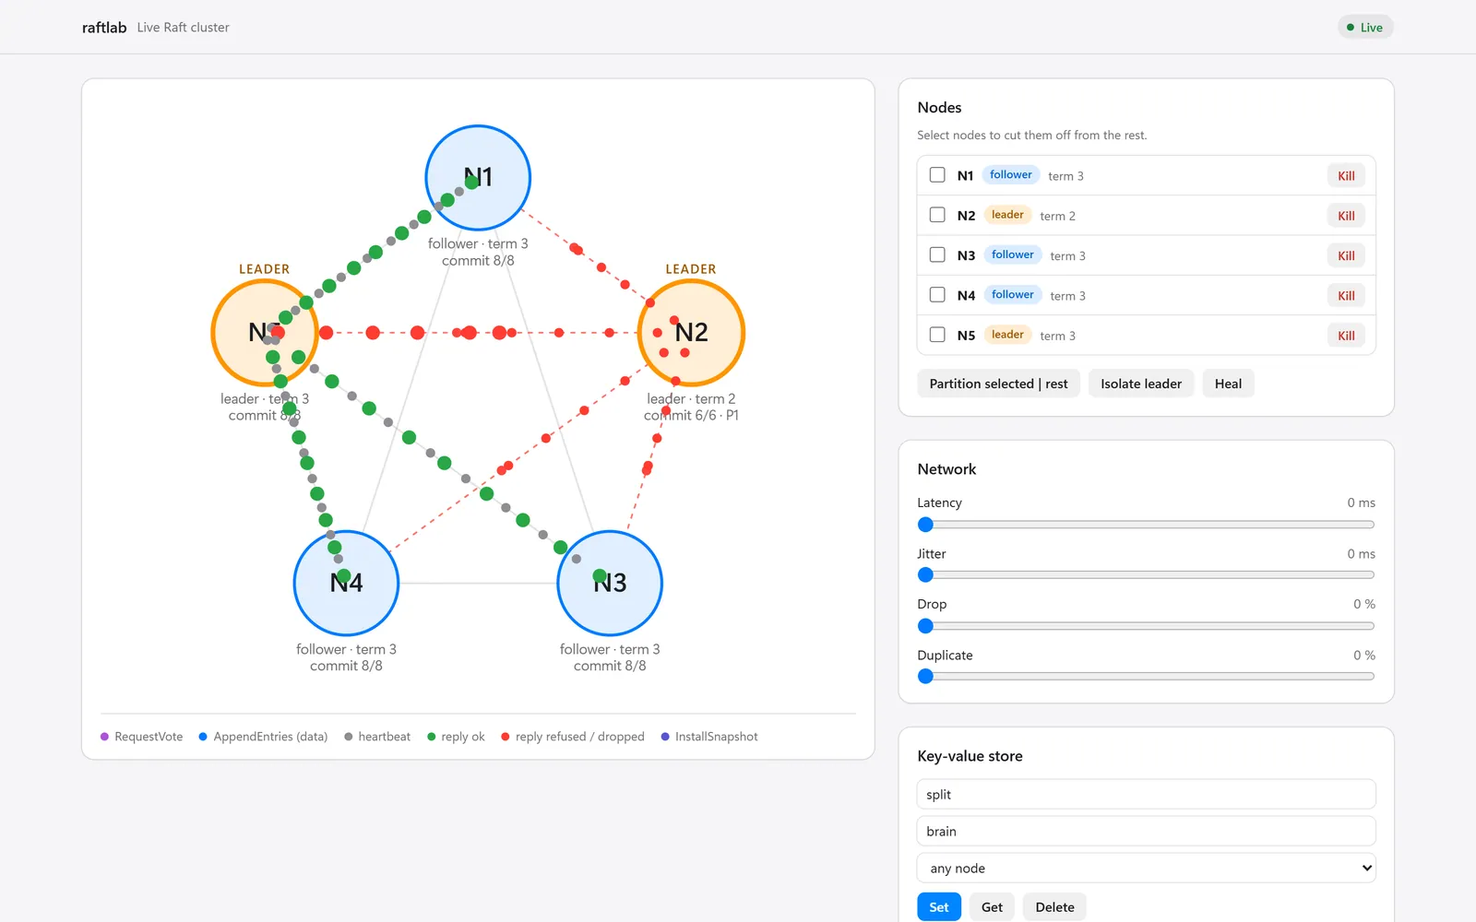
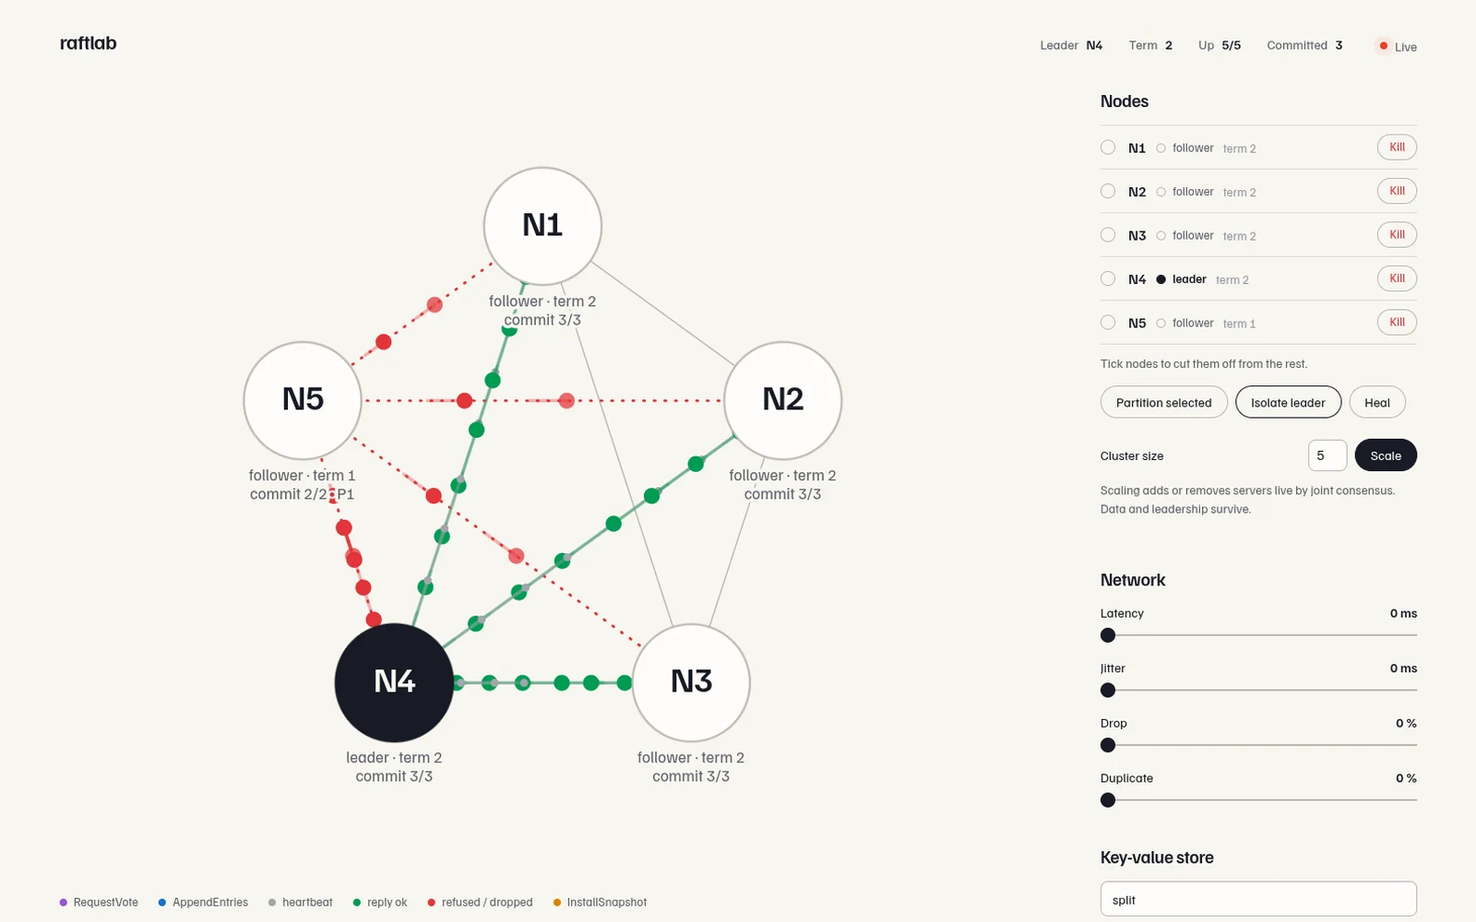
docs(raftlab): refresh screenshot and copy to match the current repo
New visualizer screenshot for the project page and both OG cards. Update
the case study, home page, JSON-LD and llms.txt: PreVote, CheckQuorum,
joint consensus, ReadIndex and chunked snapshots are built, not roadmap;
line counts are 8.7k total and 3.9k tests; the chaos test feeds a
linearizability checker. German translations re-keyed to match.

diff --git a/index.html b/index.html
@@ -210,7 +210,7 @@
       "@type": "SoftwareSourceCode",
       "@id": "https://nweber.me/#project-raftlab",
       "name": "raftlab",
-      "description": "Raft consensus implemented from scratch in Go, a linearizable replicated key-value store on top of it, and a browser UI where you can kill nodes, cut the network and watch the cluster recover. About 5,100 lines of Go with a seeded, deterministic chaos test that checks the safety properties of the algorithm.",
+      "description": "Raft consensus implemented from scratch in Go, a linearizable replicated key-value store on top of it, and a browser UI where you can kill nodes, cut the network and watch the cluster recover. About 8,700 lines of Go with a seeded, deterministic chaos test whose recorded histories are checked for linearizability.",
       "url": "https://nweber.me/projects/raftlab.html",
       "codeRepository": "https://github.com/nweber23/raftlab",
       "programmingLanguage": [
@@ -218,7 +218,7 @@
         { "@type": "ComputerLanguage", "name": "JavaScript" }
       ],
       "runtimePlatform": "Linux, Windows, macOS",
-      "keywords": "Raft, consensus algorithm, distributed systems, leader election, log replication, replicated state machine, key-value store, snapshots, write-ahead log, deterministic simulation testing, chaos testing, Go",
+      "keywords": "Raft, consensus algorithm, distributed systems, leader election, log replication, replicated state machine, key-value store, snapshots, write-ahead log, PreVote, joint consensus membership changes, linearizability checking, deterministic simulation testing, chaos testing, Go",
       "image": "https://nweber.me/assets/raftlab.webp",
       "creator": { "@id": "https://nweber.me/#person" },
       "datePublished": "2026-11-02"
@@ -494,12 +494,12 @@ $ _</pre></figure>
                     <span class="row__toggle" aria-hidden="true"></span>
                 </summary>
                 <div class="row__body">
-                    <figure class="row__figure"><img src="/assets/raftlab.webp" alt="raftlab visualizer during a network partition: five Raft nodes in a pentagon, two of them marked leader, with dashed red links where messages are dropped between the old leader and the rest" width="1600" height="1000" loading="lazy" decoding="async">
-                        <figcaption class="mono-s"><span>Network partition: two nodes believe they lead</span><span>[term 2 vs 3]</span></figcaption></figure>
+                    <figure class="row__figure"><img src="/assets/raftlab.webp" alt="raftlab visualizer during a network partition: five Raft nodes in a pentagon, the new leader N4 drawn as a solid dark circle, and dotted red links where messages are dropped between the cut-off old leader N5 and the rest" width="1600" height="1000" loading="lazy" decoding="async">
+                        <figcaption class="mono-s"><span>Network partition: the old leader N5 stepped down, N4 won term 2</span><span>[term 1 vs 2]</span></figcaption></figure>
                     <div class="row__text">
                         <p class="row__summary">Raft consensus implemented from scratch in Go — leader election, log replication, snapshots and crash recovery — with a linearizable key-value store on top and a browser UI where you can kill nodes, cut the network and watch the cluster recover.</p>
-                        <dl class="row__metrics"><div><dt>Go code</dt><dd>5.1k lines</dd></div><div><dt>Of which tests</dt><dd>2.2k lines</dd></div><div><dt>Dependencies</dt><dd>1</dd></div></dl>
-                        <div class="row__prose"><p><strong>Problem:</strong> Raft is the algorithm behind etcd, Consul and CockroachDB, and it is easy to nod along to the paper and hard to trust your own implementation. A consensus bug does not crash. It shows up as two nodes disagreeing after one specific sequence of crashes, partitions and reordered packets. I wanted to implement all of it, including the parts tutorials skip (persistence, log compaction, <code>InstallSnapshot</code>, exactly-once clients), and to see it behave rather than trust it.</p><p><strong>Solution:</strong> A complete Raft implementation in Go: leader election, log replication with conflict repair, the election restriction, commitment of prior-term entries, a checksummed write-ahead log with crash recovery, and log compaction with <code>InstallSnapshot</code> for followers that fell far behind. A replicated key-value store sits on top. Reads go through the log, so they are linearizable, and client sessions make a retried write apply at most once. <code>raftnode</code> runs one member per process over HTTP. <code>raftlab</code> runs five in one process over a fault-injecting network and streams every message to the browser as an animated dot, where you can kill nodes, partition the network and dial in latency, loss and duplication.</p><p><strong>Technical Approach:</strong> The core <code>raft.Node</code> is a pure state machine with no goroutines, sockets or wall-clock time. Everything it touches goes through four interfaces: <code>Transport</code>, <code>Clock</code>, <code>Storage</code> and <code>StateMachine</code>. Because time and I/O are injected, a five-node cluster runs on a fake clock inside a single-threaded test, and a run is a pure function of its random seed. A chaos test crashes and restarts nodes, partitions the network and injects loss, duplication and delay for 40 virtual seconds while four clients write and read, checking election safety and committed-prefix agreement every 10 ms. At the end it checks that replicas converge, that every acknowledged write survived and that every read returned the last acknowledged write. A failure prints its seed, and <code>CHAOS_SEED=17 go test -run Chaos ./internal/kv</code> replays it exactly. The core uses only the standard library; the single dependency is a WebSocket library for the visualizer.</p><p><strong>Results &amp; Learnings:</strong> About 5,100 lines of Go, around 2,200 of them tests, with CI running <code>go test -race</code> and <code>golangci-lint</code>. The bugs found along the way are the real lesson: stale timer callbacks that start a spurious election and depose a healthy leader, a delayed <code>AppendEntries</code> erasing newer entries, reordered replies moving <code>nextIndex</code> backwards, and a Windows-only crash where the WAL could not rename over an open file during its first compaction. The limits are written down too: a read costs a full replication round, snapshots are a single message and the client API is unauthenticated. PreVote, CheckQuorum, joint-consensus membership changes and ReadIndex reads are on the roadmap. The <a href="writing/raft-deterministic-simulation-testing.html">write-up</a> covers how the fake clock works and the one bug it could not reproduce.</p></div>
+                        <dl class="row__metrics"><div><dt>Go code</dt><dd>8.7k lines</dd></div><div><dt>Of which tests</dt><dd>3.9k lines</dd></div><div><dt>Dependencies</dt><dd>1</dd></div></dl>
+                        <div class="row__prose"><p><strong>Problem:</strong> Raft is the algorithm behind etcd, Consul and CockroachDB, and it is easy to nod along to the paper and hard to trust your own implementation. A consensus bug does not crash. It shows up as two nodes disagreeing after one specific sequence of crashes, partitions and reordered packets. I wanted to implement all of it, including the parts tutorials skip (persistence, log compaction, <code>InstallSnapshot</code>, exactly-once clients), and to see it behave rather than trust it.</p><p><strong>Solution:</strong> A complete Raft implementation in Go: leader election with PreVote and CheckQuorum, log replication with conflict repair and pipelining, the election restriction, commitment of prior-term entries, a checksummed write-ahead log with crash recovery, and log compaction with <code>InstallSnapshot</code>, streamed in chunks, for followers that fell far behind. Membership changes use joint consensus, so servers join and leave while the cluster runs. A replicated key-value store sits on top. Reads use ReadIndex, so they are linearizable without a log write, and client sessions make a retried write apply at most once. <code>raftnode</code> runs one member per process over HTTP, optionally with mutual TLS. <code>raftlab</code> runs a cluster of five by default, resizable live up to fifteen, in one process over a fault-injecting network and streams every message to the browser as an animated dot, where you can kill nodes, partition the network, scale the cluster and dial in latency, loss and duplication.</p><p><strong>Technical Approach:</strong> The core <code>raft.Node</code> is a pure state machine with no goroutines, sockets or wall-clock time. Everything it touches goes through four interfaces: <code>Transport</code>, <code>Clock</code>, <code>Storage</code> and <code>StateMachine</code>. Because time and I/O are injected, a five-node cluster runs on a fake clock inside a single-threaded test, and a run is a pure function of its random seed. A chaos test crashes and restarts nodes, partitions the network and injects loss, duplication and delay for 40 virtual seconds while four clients write and read, checking election safety and committed-prefix agreement every 10 ms. At the end it checks that replicas converge and feeds the complete recorded history to a linearizability checker (Wing–Gong/Lowe) written for this repo. A failure prints its seed, and <code>CHAOS_SEED=17 go test -run Chaos ./internal/kv</code> replays it exactly. The core uses only the standard library; the single dependency is a WebSocket library for the visualizer.</p><p><strong>Results &amp; Learnings:</strong> About 8,700 lines of Go, around 3,900 of them tests, with CI running <code>go test -race</code> and <code>golangci-lint</code>. The bugs found along the way are the real lesson: stale timer callbacks that start a spurious election and depose a healthy leader, a delayed <code>AppendEntries</code> erasing newer entries, reordered replies moving <code>nextIndex</code> backwards, and a Windows-only crash where the WAL could not rename over an open file during its first compaction. The limits are written down too: the client API is unauthenticated, a node holding a valid certificate is trusted fully, and the visualizer's control API is open by design. The one thing left on the roadmap is leader leases as a cheaper alternative to ReadIndex, which would trade correctness for an assumption about clock drift. The <a href="writing/raft-deterministic-simulation-testing.html">write-up</a> covers how the fake clock works and the one bug it could not reproduce.</p></div>
                         <dl class="row__details"><div><dt>Stack</dt><dd>Go · WebSocket · SVG · GitHub Actions</dd></div><div><dt>Role</dt><dd>Full implementation</dd></div><div><dt>Write-up</dt><dd><a href="writing/raft-deterministic-simulation-testing.html">Testing Raft with a fake clock: deterministic chaos in Go</a></dd></div><div><dt>Source</dt><dd><a href="https://github.com/nweber23/raftlab" target="_blank" rel="noopener noreferrer">github.com/nweber23/raftlab</a></dd></div></dl>
                         <ul class="row__related" role="list"><li><a class="link" href="/projects/raftlab.html">Read the full case study</a></li><li><a class="link" href="#project-tetris-ml">Tetris ML — the same deterministic, seedable approach to testing</a></li><li><a class="link" href="#project-transcendence">Transcendence Casino — Go services talking over a typed contract</a></li><li><a class="link" href="writing/raft-deterministic-simulation-testing.html">Writing: testing Raft with a fake clock</a></li></ul>
                     </div>

diff --git a/projects/raftlab.html b/projects/raftlab.html
@@ -51,7 +51,7 @@
   "@type": "SoftwareSourceCode",
   "@id": "https://nweber.me/projects/raftlab.html#software",
   "name": "raftlab",
-  "description": "Raft consensus implemented from scratch in Go with a replicated key-value store and a browser UI to kill nodes, cut the network and watch the cluster recover. About 5,100 lines, 2,200 of them tests.",
+  "description": "Raft consensus implemented from scratch in Go with a replicated key-value store and a browser UI to kill nodes, cut the network and watch the cluster recover. About 8,700 lines, 3,900 of them tests.",
   "url": "https://nweber.me/projects/raftlab.html",
   "codeRepository": "https://github.com/nweber23/raftlab",
   "programmingLanguage": [
@@ -65,7 +65,7 @@
     }
   ],
   "runtimePlatform": "Linux, Windows, macOS",
-  "keywords": "Raft, consensus algorithm, distributed systems, leader election, log replication, replicated state machine, key-value store, snapshots, write-ahead log, deterministic simulation testing, chaos testing, Go",
+  "keywords": "Raft, consensus algorithm, distributed systems, leader election, log replication, replicated state machine, key-value store, snapshots, write-ahead log, PreVote, joint consensus membership changes, linearizability checking, deterministic simulation testing, chaos testing, Go",
   "image": "https://nweber.me/assets/raftlab.webp",
   "creator": {
     "@id": "https://nweber.me/#person"
@@ -103,12 +103,12 @@
             </div>
 
             <div class="project__body">
-                <figure class="project__figure"><img src="/assets/raftlab.webp" alt="raftlab visualizer during a network partition: five Raft nodes in a pentagon, two of them marked leader, with dashed red links where messages are dropped between the old leader and the rest" width="1600" height="1000" decoding="async">
-                        <figcaption class="mono-s"><span>Network partition: two nodes believe they lead</span><span>[term 2 vs 3]</span></figcaption></figure>
+                <figure class="project__figure"><img src="/assets/raftlab.webp" alt="raftlab visualizer during a network partition: five Raft nodes in a pentagon, the new leader N4 drawn as a solid dark circle, and dotted red links where messages are dropped between the cut-off old leader N5 and the rest" width="1600" height="1000" decoding="async">
+                        <figcaption class="mono-s"><span>Network partition: the old leader N5 stepped down, N4 won term 2</span><span>[term 1 vs 2]</span></figcaption></figure>
                 <div class="project__text">
                         <p class="project__summary">Raft consensus implemented from scratch in Go — leader election, log replication, snapshots and crash recovery — with a linearizable key-value store on top and a browser UI where you can kill nodes, cut the network and watch the cluster recover.</p>
-                        <dl class="project__metrics"><div><dt>Go code</dt><dd>5.1k lines</dd></div><div><dt>Of which tests</dt><dd>2.2k lines</dd></div><div><dt>Dependencies</dt><dd>1</dd></div></dl>
-                        <div class="project__prose"><p><strong>Problem:</strong> Raft is the algorithm behind etcd, Consul and CockroachDB, and it is easy to nod along to the paper and hard to trust your own implementation. A consensus bug does not crash. It shows up as two nodes disagreeing after one specific sequence of crashes, partitions and reordered packets. I wanted to implement all of it, including the parts tutorials skip (persistence, log compaction, <code>InstallSnapshot</code>, exactly-once clients), and to see it behave rather than trust it.</p><p><strong>Solution:</strong> A complete Raft implementation in Go: leader election, log replication with conflict repair, the election restriction, commitment of prior-term entries, a checksummed write-ahead log with crash recovery, and log compaction with <code>InstallSnapshot</code> for followers that fell far behind. A replicated key-value store sits on top. Reads go through the log, so they are linearizable, and client sessions make a retried write apply at most once. <code>raftnode</code> runs one member per process over HTTP. <code>raftlab</code> runs five in one process over a fault-injecting network and streams every message to the browser as an animated dot, where you can kill nodes, partition the network and dial in latency, loss and duplication.</p><p><strong>Technical Approach:</strong> The core <code>raft.Node</code> is a pure state machine with no goroutines, sockets or wall-clock time. Everything it touches goes through four interfaces: <code>Transport</code>, <code>Clock</code>, <code>Storage</code> and <code>StateMachine</code>. Because time and I/O are injected, a five-node cluster runs on a fake clock inside a single-threaded test, and a run is a pure function of its random seed. A chaos test crashes and restarts nodes, partitions the network and injects loss, duplication and delay for 40 virtual seconds while four clients write and read, checking election safety and committed-prefix agreement every 10 ms. At the end it checks that replicas converge, that every acknowledged write survived and that every read returned the last acknowledged write. A failure prints its seed, and <code>CHAOS_SEED=17 go test -run Chaos ./internal/kv</code> replays it exactly. The core uses only the standard library; the single dependency is a WebSocket library for the visualizer.</p><p><strong>Results &amp; Learnings:</strong> About 5,100 lines of Go, around 2,200 of them tests, with CI running <code>go test -race</code> and <code>golangci-lint</code>. The bugs found along the way are the real lesson: stale timer callbacks that start a spurious election and depose a healthy leader, a delayed <code>AppendEntries</code> erasing newer entries, reordered replies moving <code>nextIndex</code> backwards, and a Windows-only crash where the WAL could not rename over an open file during its first compaction. The limits are written down too: a read costs a full replication round, snapshots are a single message and the client API is unauthenticated. PreVote, CheckQuorum, joint-consensus membership changes and ReadIndex reads are on the roadmap. The <a href="/writing/raft-deterministic-simulation-testing.html">write-up</a> covers how the fake clock works and the one bug it could not reproduce.</p></div>
+                        <dl class="project__metrics"><div><dt>Go code</dt><dd>8.7k lines</dd></div><div><dt>Of which tests</dt><dd>3.9k lines</dd></div><div><dt>Dependencies</dt><dd>1</dd></div></dl>
+                        <div class="project__prose"><p><strong>Problem:</strong> Raft is the algorithm behind etcd, Consul and CockroachDB, and it is easy to nod along to the paper and hard to trust your own implementation. A consensus bug does not crash. It shows up as two nodes disagreeing after one specific sequence of crashes, partitions and reordered packets. I wanted to implement all of it, including the parts tutorials skip (persistence, log compaction, <code>InstallSnapshot</code>, exactly-once clients), and to see it behave rather than trust it.</p><p><strong>Solution:</strong> A complete Raft implementation in Go: leader election with PreVote and CheckQuorum, log replication with conflict repair and pipelining, the election restriction, commitment of prior-term entries, a checksummed write-ahead log with crash recovery, and log compaction with <code>InstallSnapshot</code>, streamed in chunks, for followers that fell far behind. Membership changes use joint consensus, so servers join and leave while the cluster runs. A replicated key-value store sits on top. Reads use ReadIndex, so they are linearizable without a log write, and client sessions make a retried write apply at most once. <code>raftnode</code> runs one member per process over HTTP, optionally with mutual TLS. <code>raftlab</code> runs a cluster of five by default, resizable live up to fifteen, in one process over a fault-injecting network and streams every message to the browser as an animated dot, where you can kill nodes, partition the network, scale the cluster and dial in latency, loss and duplication.</p><p><strong>Technical Approach:</strong> The core <code>raft.Node</code> is a pure state machine with no goroutines, sockets or wall-clock time. Everything it touches goes through four interfaces: <code>Transport</code>, <code>Clock</code>, <code>Storage</code> and <code>StateMachine</code>. Because time and I/O are injected, a five-node cluster runs on a fake clock inside a single-threaded test, and a run is a pure function of its random seed. A chaos test crashes and restarts nodes, partitions the network and injects loss, duplication and delay for 40 virtual seconds while four clients write and read, checking election safety and committed-prefix agreement every 10 ms. At the end it checks that replicas converge and feeds the complete recorded history to a linearizability checker (Wing–Gong/Lowe) written for this repo. A failure prints its seed, and <code>CHAOS_SEED=17 go test -run Chaos ./internal/kv</code> replays it exactly. The core uses only the standard library; the single dependency is a WebSocket library for the visualizer.</p><p><strong>Results &amp; Learnings:</strong> About 8,700 lines of Go, around 3,900 of them tests, with CI running <code>go test -race</code> and <code>golangci-lint</code>. The bugs found along the way are the real lesson: stale timer callbacks that start a spurious election and depose a healthy leader, a delayed <code>AppendEntries</code> erasing newer entries, reordered replies moving <code>nextIndex</code> backwards, and a Windows-only crash where the WAL could not rename over an open file during its first compaction. The limits are written down too: the client API is unauthenticated, a node holding a valid certificate is trusted fully, and the visualizer's control API is open by design. The one thing left on the roadmap is leader leases as a cheaper alternative to ReadIndex, which would trade correctness for an assumption about clock drift. The <a href="/writing/raft-deterministic-simulation-testing.html">write-up</a> covers how the fake clock works and the one bug it could not reproduce.</p></div>
                         <dl class="project__details"><div><dt>Stack</dt><dd>Go · WebSocket · SVG · GitHub Actions</dd></div><div><dt>Role</dt><dd>Full implementation</dd></div><div><dt>Write-up</dt><dd><a href="/writing/raft-deterministic-simulation-testing.html">Testing Raft with a fake clock: deterministic chaos in Go</a></dd></div><div><dt>Source</dt><dd><a href="https://github.com/nweber23/raftlab" target="_blank" rel="noopener noreferrer">github.com/nweber23/raftlab</a></dd></div></dl>
                         <ul class="project__related" role="list"><li><a class="link" href="/projects/tetris-ml.html">Tetris ML — the same deterministic, seedable approach to testing</a></li><li><a class="link" href="/projects/transcendence-casino.html">Transcendence Casino — Go services talking over a typed contract</a></li><li><a class="link" href="/writing/raft-deterministic-simulation-testing.html">Writing: testing Raft with a fake clock</a></li></ul>
                 </div>

diff --git a/writing/raft-deterministic-simulation-testing.html b/writing/raft-deterministic-simulation-testing.html
@@ -98,8 +98,8 @@
                 <article class="imprint__block">
                     <p class="imprint__text">Raft is easy to read and hard to trust. The paper is a few pages long, and the bugs live in the interleavings: a message that arrives after a leader change, a timer that fires just before it is stopped, a crash halfway through a write. I wrote <a href="/projects/raftlab.html">raftlab</a>, a Raft implementation in Go with a replicated key-value store and a browser visualizer, and the part I would keep if I had to throw the rest away is how it is tested.</p>
 
-                    <figure class="article__figure"><img src="../assets/raftlab.webp" alt="raftlab visualizer during a network partition: five Raft nodes in a pentagon, two of them marked leader, with dashed red links where messages are dropped between the old leader and the rest" width="1600" height="1000" decoding="async">
-                        <figcaption>The visualizer during a partition. The old leader (N2, term 2) still believes it leads but cannot reach a majority. The other side has elected N5 in term 3. Red dashed links are dropped messages.</figcaption></figure>
+                    <figure class="article__figure"><img src="../assets/raftlab.webp" alt="raftlab visualizer during a network partition: five Raft nodes in a pentagon, the new leader N4 drawn as a solid dark circle, and dotted red links where messages are dropped between the cut-off old leader N5 and the rest" width="1600" height="1000" decoding="async">
+                        <figcaption>The visualizer during a partition. The old leader (N5, term 1) has already stepped down: CheckQuorum made it notice it lost its majority. The other side elected N4 in term 2, drawn as the solid node. Dotted red links are cut and red dots are dropped messages.</figcaption></figure>
 
                     <h2 class="imprint__heading">Four seams and no clock</h2>
                     <p class="imprint__text">The core, <code>raft.Node</code>, implements Figure 2 of the Raft paper and nothing else. It has no goroutines and no knowledge of sockets or wall-clock time. Everything it touches goes through one of four interfaces:</p>
